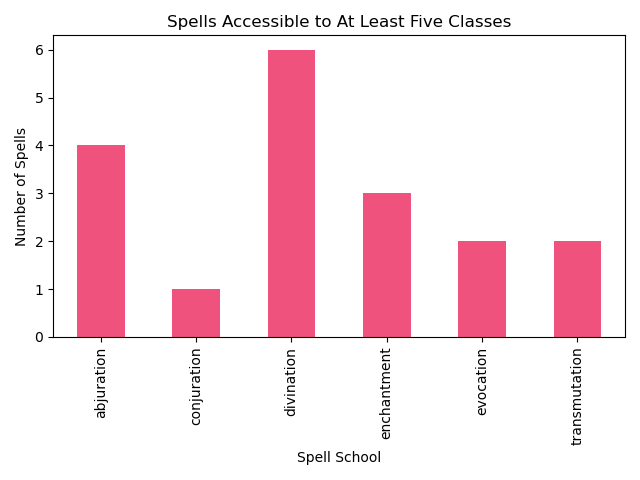
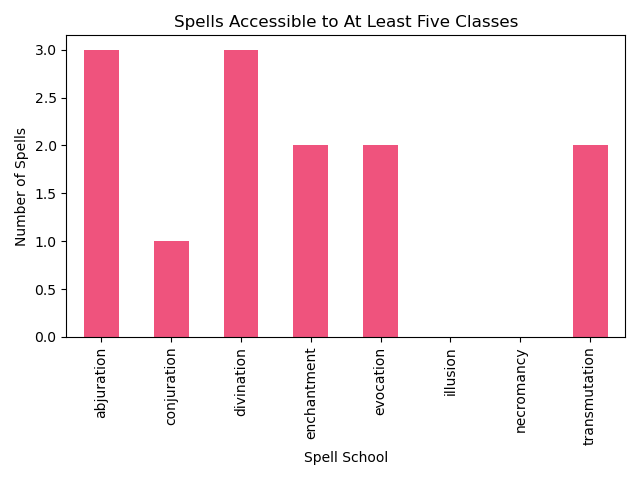
Fixed graphs

diff --git a/index.md b/index.md
@@ -251,29 +251,13 @@ Click [here](assets/images/allschools_graph.png) for a larger view.
 <br>
 Now, the above data explore spell specialization through looking at the *exact* numbers of classes with access to each spell--i.e, the spells to which *only* four classes have access. However, this can also be approached cumulatively for another perspective on the same data. Here, the graphs instead show the *total* number of classes with access to a spell--the spells to which *at least* four classes have access. 
 
-The code is very similar:
+The code is very similar:, but uses ```oneclasstotal = combined_df['count'] >= 1``` in place of ```oneclass = combined_df['count'] == 1```.
 
-```
-oneclasstotal = combined_df['count'] >= 1
-twoclasstotal = combined_df['count'] >= 2
-threeclasstotal = combined_df['count'] >= 3
-fourclasstotal = combined_df['count'] >= 4
-fiveclasstotal = combined_df['count'] >= 5
-sixclasstotal = combined_df['count'] >= 6
-sevenclasstotal = combined_df['count'] >= 7
-
-oneSchoolTotal = combined_df[oneclasstotal].value_counts('Spell School').sort_index()
-twoSchoolTotal = combined_df[twoclasstotal].value_counts('Spell School').sort_index()
-threeSchoolTotal = combined_df[threeclasstotal].value_counts('Spell School').sort_index()
-fourSchoolTotal = combined_df[fourclasstotal].value_counts('Spell School').sort_index()
-fiveSchoolTotal = combined_df[fiveclasstotal].value_counts('Spell School').sort_index()
-sixSchoolTotal = combined_df[sixclasstotal].value_counts('Spell School').sort_index()
-sevenSchoolTotal = combined_df[sevenclasstotal].value_counts('Spell School').sort_index()
-```
-
-Producing the below graphs:
 
 <img src="assets/images/oneschooltotal_graph.png" width="600">
+<br>
+<br>
+Evocation and conjuration spells, the two most specialized spells above, still dominate in number when it comes to which spells are most widely available. However, this graph shows the large number of transmutation spells that exist (and are therefore available to at least one class), indicating that transmutation spells are often less highly specialized and accessible to a wider number of classes.
 <br>
 <br>
 <img src="assets/images/twoschooltotal_graph.png" width="600">
@@ -292,10 +276,7 @@ Producing the below graphs:
 <br>
 <br>
 <img src="assets/images/sevenschooltotal_graph.png" width="600">
-
-
-<img src="assets/images/combinedschooltotal_graph.png" width="800">
-Click [here](assets/images/combinedschooltotal_graph.png) for a larger view.
+<br>
 <br>
 
 ## 2. Are some schools of magic concentrated among specific classes?